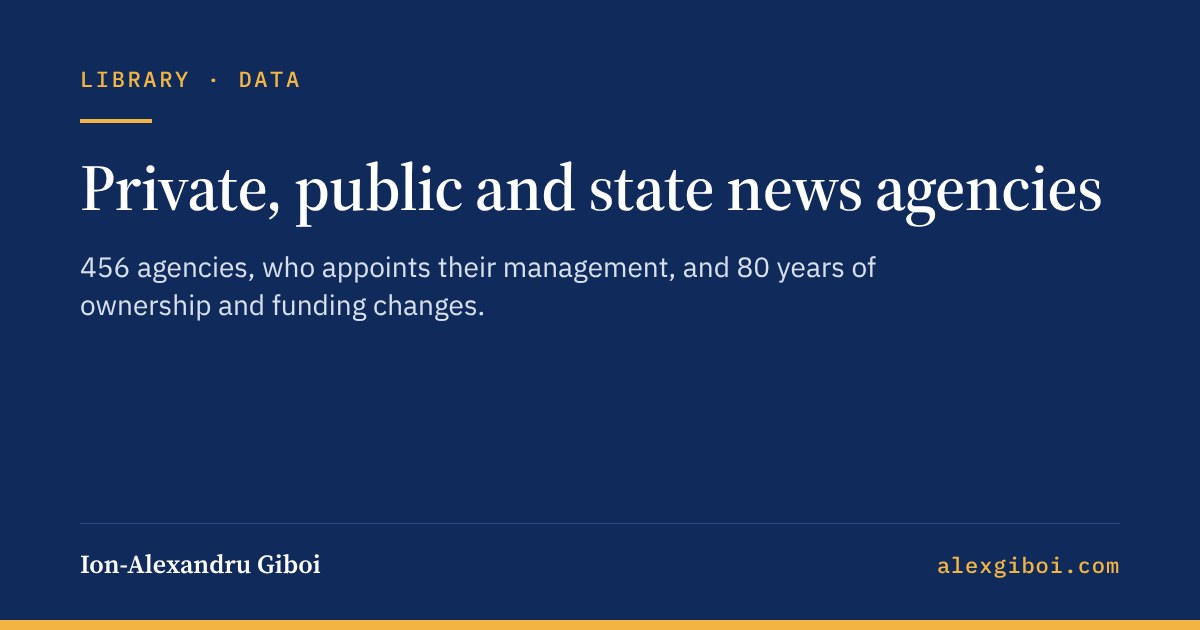
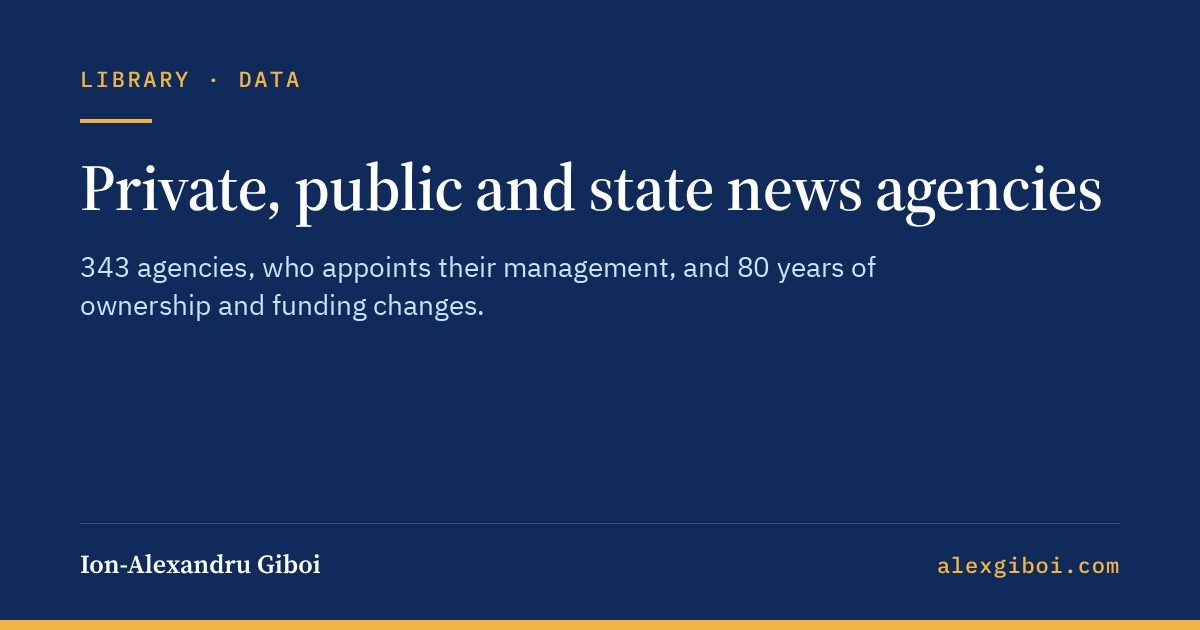
News agencies list: restore major agencies; update share image
Restore nine major active agencies of recognised countries that are not
in Find My News Agency: RIA Novosti, Sputnik, KCNA, Myanmar News Agency,
Saba, Fars, Tasnim, IRIB News and ISNA (plus Saba's change-log event).
Count is now 343 on the page, homepage and library cards, and on the
redrawn share image (versioned URL so link previews refresh).

Claude-Session: https://claude.ai/code/session_018m2nwoxPTn8GwogmN3jczu

diff --git a/public/library/worldnewsagencieslist/index.html b/public/library/worldnewsagencieslist/index.html
@@ -4,15 +4,15 @@
 <meta charset="utf-8">
 <meta name="viewport" content="width=device-width, initial-scale=1">
 <title>Private, public and state news agencies — Ion-Alexandru Giboi</title>
-<meta name="description" content="Who owns and runs the world's news agencies: 334 agencies classified as public / state or private, who appoints their management, and 80 years of ownership and funding changes. Each row checked against its sources.">
+<meta name="description" content="Who owns and runs the world's news agencies: 343 agencies classified as public / state or private, who appoints their management, and 80 years of ownership and funding changes. Each row checked against its sources.">
 <link rel="canonical" href="https://alexgiboi.com/library/worldnewsagencieslist/">
 <meta property="og:title" content="Private, public and state news agencies">
 <meta property="og:url" content="https://alexgiboi.com/library/worldnewsagencieslist/">
 <meta name="theme-color" content="#102A5C">
 <meta property="og:type" content="article">
 <meta property="og:site_name" content="Ion-Alexandru Giboi">
-<meta property="og:description" content="Who owns and runs the world's news agencies: 334 agencies classified as public / state or private, who appoints their management, and 80 years of ownership and funding changes.">
-<meta property="og:image" content="https://alexgiboi.com/library/worldnewsagencieslist/share-card.jpg">
+<meta property="og:description" content="Who owns and runs the world's news agencies: 343 agencies classified as public / state or private, who appoints their management, and 80 years of ownership and funding changes.">
+<meta property="og:image" content="https://alexgiboi.com/library/worldnewsagencieslist/share-card.jpg?v=2">
 <meta property="og:image:width" content="1200">
 <meta property="og:image:height" content="630">
 <meta property="og:image:alt" content="Private, public and state news agencies: a dataset by Ion-Alexandru Giboi">

diff --git a/public/library/index.html b/public/library/index.html
@@ -53,7 +53,7 @@
       </a>
       <a class="item" href="/library/worldnewsagencieslist/">
         <span class="meta">DATA · OCT 2026</span>
-        <span><span class="title">The World's News Agencies List</span><span class="desc">334 news agencies classified as public / state or private, who appoints their management, and a log of ownership and funding changes since 1946. Every row checked against its sources; the data is free to download.</span></span>
+        <span><span class="title">The World's News Agencies List</span><span class="desc">343 news agencies classified as public / state or private, who appoints their management, and a log of ownership and funding changes since 1946. Every row checked against its sources; the data is free to download.</span></span>
         <span class="go">Explore →</span>
       </a>
       <a class="item" href="/library/telephone-game/">

diff --git a/public/index.html b/public/index.html
@@ -64,7 +64,7 @@
       <a class="card card-library" href="/library/worldnewsagencieslist/">
         <span class="meta">DATA · OCTOBER 2026</span>
         <span class="title">The World's News Agencies List</span>
-        <span class="desc">334 news agencies: public, state or private, who appoints their management, and eight decades of changes. Every row checked against its sources.</span>
+        <span class="desc">343 news agencies: public, state or private, who appoints their management, and eight decades of changes. Every row checked against its sources.</span>
         <span class="go">Explore →</span>
       </a>
       <a class="card card-library" href="/library/telephone-game/">
